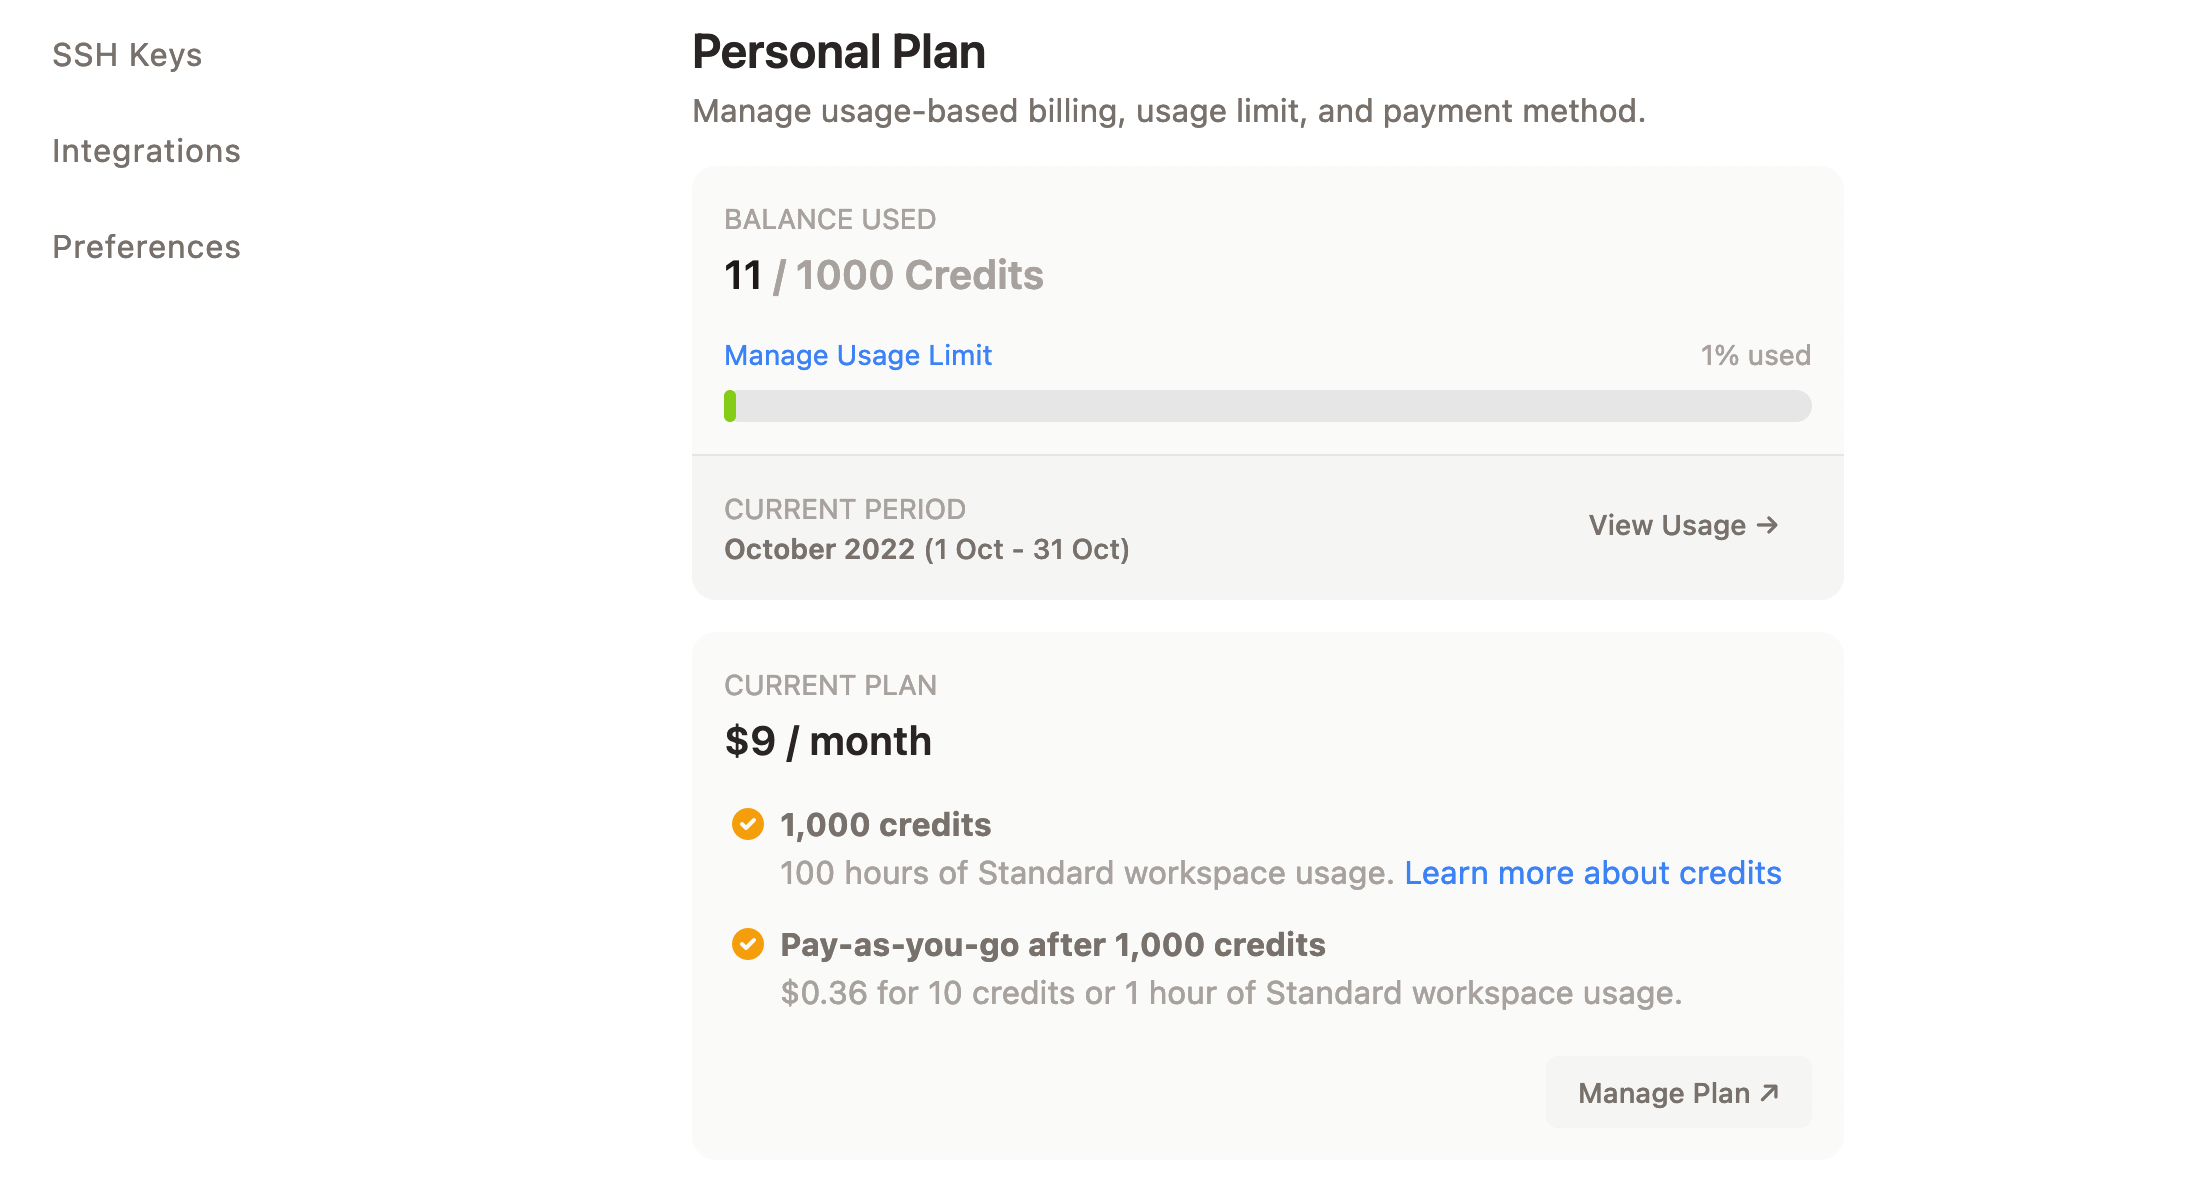
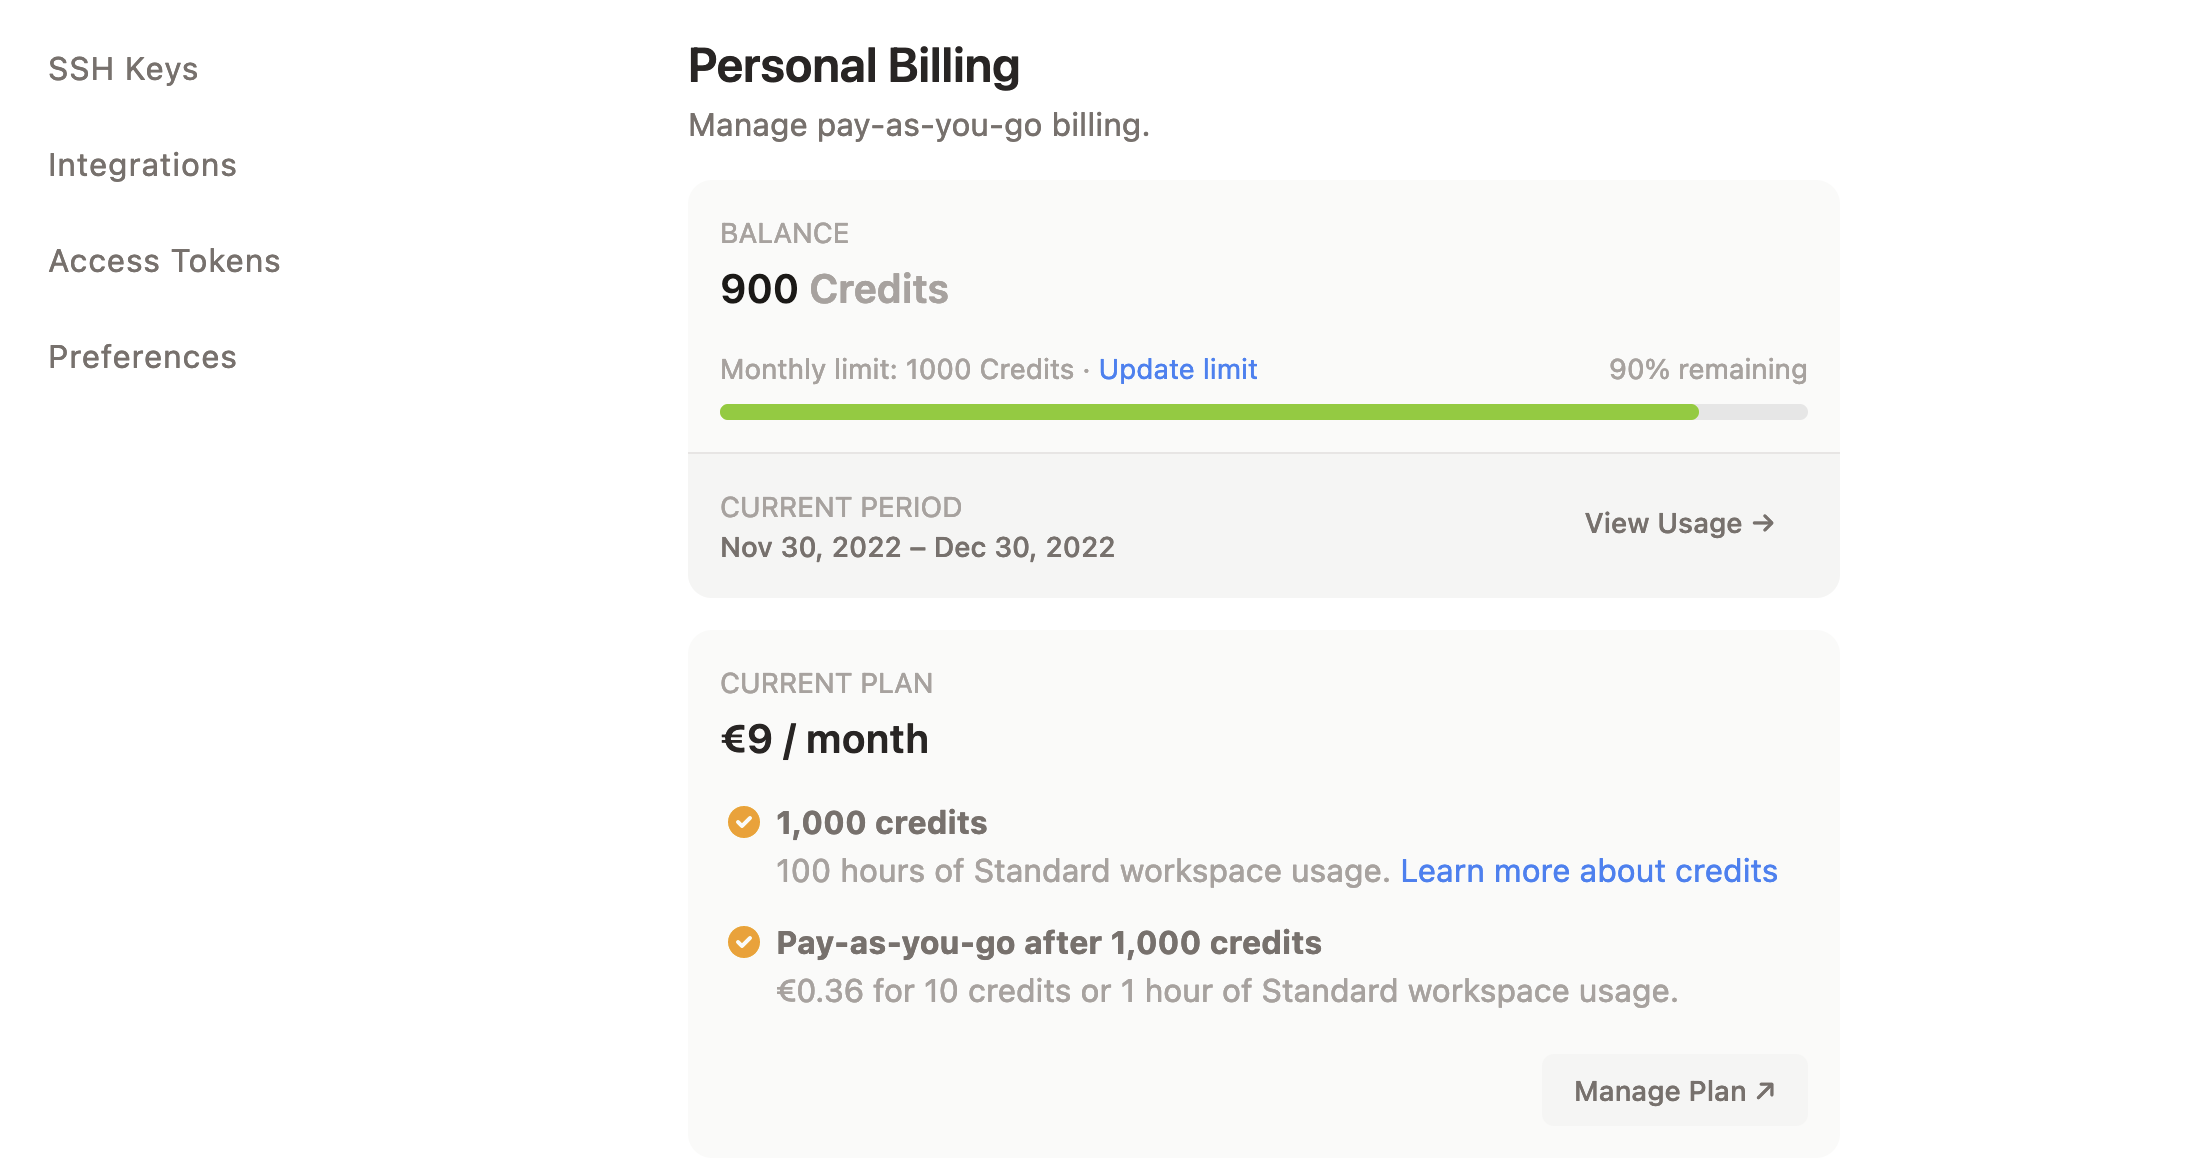
Replace usage-based billing with pay-as-you-go (#3076)

diff --git a/src/lib/contents/docs/menu.ts b/src/lib/contents/docs/menu.ts
@@ -184,8 +184,8 @@ export const MENU: MenuEntry[] = [
     M("Team plans", "configure/billing/team-plans"),
     M("Team billing", "configure/billing/team-billing", false, [], "beta"),
     M(
-      "Usage-based billing",
-      "configure/billing/usage-based-billing",
+      "Pay-as-you-go",
+      "configure/billing/pay-as-you-go",
       false,
       [],
       "Early Access"

diff --git a/src/lib/contents/changelog/2022-10-31.md b/src/lib/contents/changelog/2022-10-31.md
@@ -16,7 +16,7 @@ Welcome to the October 2022 edition of the Gitpod Changelog!
 
 **Key highlights**
 
-- [Even more power! ⚡ Try large workspaces with usage-based billing 🎉](#even-more-power--try-large-workspaces-with-usage-based-billing)
+- [Even more power! ⚡ Try large workspaces with pay-as-you-go 🎉](#even-more-power--try-large-workspaces-with-pay-as-you-go)
 - [Start workspaces based on existing prebuilds ⚡](#start-workspaces-based-on-existing-prebuilds)
 - [RubyMine and Webstorm IDEs now in beta 🚀](#rubymine-and-webstorm-ides-now-in-beta)
 - [New "exposed ports" view in VS Code Desktop 🔌](#new-exposed-ports-view-in-vs-code-desktop)
@@ -26,19 +26,19 @@ Welcome to the October 2022 edition of the Gitpod Changelog!
 - [Projects now only created under teams, not personal accounts ⚠](#projects-now-only-created-under-teams-not-personal-accounts)
 - [Using private workspace images (Alpha) 🔐](#using-private-workspace-images-alpha)
 
-## Even more power! &#x26A1; Try large workspaces with usage-based billing &#x1F389;
+## Even more power! &#x26A1; Try large workspaces with pay-as-you-go &#x1F389;
 
 > **Important:** Prices and terms are subject to change.
 
-With [usage-based billing](https://www.gitpod.io/docs/configure/billing/usage-based-billing) you get early access to [workspace classes](https://www.gitpod.io/docs/configure/workspaces/workspace-classes), allowing you to customize your workspace resources. To get access to [usage-based billing](https://www.gitpod.io/docs/configure/billing/usage-based-billing) either for teams or individual users, please [contact us](https://www.gitpod.io/contact/support).
+With [pay-as-you-go](https://www.gitpod.io/docs/configure/billing/pay-as-you-go) you get early access to [workspace classes](https://www.gitpod.io/docs/configure/workspaces/workspace-classes), allowing you to customize your workspace resources. To get access to [pay-as-you-go](https://www.gitpod.io/docs/configure/billing/pay-as-you-go) either for teams or individual users, please [contact us](https://www.gitpod.io/contact/support).
 
-**How does usage-based billing work?**
+**How does pay-as-you-go work?**
 
 - Gitpod usage is measured in credits, based on how long your workspaces run, and the resources consumed by different workspace classes. Metered usage also includes [prebuilds](/docs/configure/projects/prebuilds).
-- [Individual users](/docs/configure/billing/usage-based-billing#configure-personal-billing) receive 500 free credits per month on the free plan, these credits are equivalent to 50 Standard workspace hours or 25 Large workspace hours.
+- [Individual users](/docs/configure/billing/pay-as-you-go#configure-personal-billing) receive 500 free credits per month on the free plan, these credits are equivalent to 50 Standard workspace hours or 25 Large workspace hours.
 - For users who upgrade to the personal paid plan at €/$ 9.00 per month, workspace usage allowance increases to 1000 credits.
-- The standard pay-as-you-go rate for paid users, and [for teams](/docs/configure/billing/usage-based-billing#configure-team-billing), is €/$ 0.036 per credit.
-- Existing paid plans need to be cancelled for usage-based billing to work.
+- The standard pay-as-you-go rate for paid users, and [for teams](/docs/configure/billing/pay-as-you-go#configure-team-billing), is €/$ 0.036 per credit.
+- Existing paid plans need to be cancelled for pay-as-you-go billing to work.
 
 <br/>
 

diff --git a/gitpod/docs/configure/billing/pay-as-you-go.md b/gitpod/docs/configure/billing/pay-as-you-go.md
@@ -1,17 +1,17 @@
 ---
 section: billing
-title: Billing - Usage-based billing
+title: Billing - Pay-as-you-go
 ---
 
 <script context="module">
   export const prerender = true;
 </script>
 
-# Usage-based billing
+# Pay-as-you-go
 
-> {title} is currently in [Early Access](/docs/help/public-roadmap/release-cycle). Please [contact us](/contact/support) to request an invitation, or [send feedback](https://github.com/gitpod-io/gitpod/issues/12636).
+> Pay-as-you-go is currently in [Early Access](/docs/help/public-roadmap/release-cycle). Please [contact us](/contact/support) to request an invitation, or [send feedback](https://github.com/gitpod-io/gitpod/issues/12636).
 
-Usage-based billing is a flexible way for teams and individual users to pay for Gitpod.
+Pay-as-you-go is a flexible way for teams and individual users to pay for Gitpod.
 
 Instead of billing for each user based on their plan, Gitpod can charge for usage based on how long workspaces run, and the resources consumed by different [workspace classes](/docs/configure/workspaces/workspace-classes). Metered usage also includes [prebuilds](/docs/configure/projects/prebuilds).
 
@@ -49,11 +49,11 @@ If you are a member of a team with billing, you can select the team to pay for a
 
 ## Configure team billing
 
-Team owners can configure usage-based billing in their team settings.
+Team owners can configure pay-as-you-go billing in their team settings.
 
 Gitpod will charge the team billing account for usage by team members, when they start workspaces on team projects, and for prebuild usage on team projects.
 
-![Active Team billing](../../../static/images/docs/billing/active-team-billing-3.png)
+![Active Team billing](../../../static/images/docs/billing/active-team-billing.png)
 
 ## Configure a usage limit
 
@@ -71,9 +71,9 @@ You can see the details of your personal usage when you click on "View Usage →
 
 ## Good to know
 
-- Usage-based billing is an early-access (invitation only) feature.
+- Pay-as-you-go billing is an early-access (invitation only) feature.
 
-- You will need to cancel any existing plan, before configuring usage-based billing.
+- You will need to cancel any existing plan, before configuring pay-as-you-go billing.
 
 - Metered usage includes prebuilds.
 

diff --git a/gitpod/docs/configure/workspaces/workspace-classes.md b/gitpod/docs/configure/workspaces/workspace-classes.md
@@ -9,7 +9,7 @@ title: Workspace classes
 
 # Workspace classes
 
-> {title} are currently in [Early Access](/docs/help/public-roadmap/release-cycle) with [Usage-based billing](/docs/configure/billing/usage-based-billing). Please [contact us](/contact/support) to request access, or [send feedback](https://github.com/gitpod-io/gitpod/issues/12473).
+> {title} are currently in [Early Access](/docs/help/public-roadmap/release-cycle) with [Pay-as-you-go](/docs/configure/billing/pay-as-you-go). Please [contact us](/contact/support) to request access, or [send feedback](https://github.com/gitpod-io/gitpod/issues/12473).
 
 Workspace classes allow you to select the resources available to your workspaces.
 

diff --git a/gitpod/docs/configure/projects/index.md b/gitpod/docs/configure/projects/index.md
@@ -15,7 +15,7 @@ Projects connect Gitpod to a git repository.
 
 A Gitpod project can only have one git repository, and a git repository can only belong to one project. Projects live under a Gitpod team. Team members use the project to configure and view [prebuilds](/docs/configure/projects/prebuilds).
 
-With [usage-based billing](/docs/configure/billing/usage-based-billing), all project usage such as workspaces and prebuilds, may be billed to the team.
+With [pay-as-you-go billing](/docs/configure/billing/pay-as-you-go), all project usage such as workspaces and prebuilds, may be billed to the team.
 
 Projects have a static URL based on the team and project name, for example:
 

diff --git a/gitpod/docs/configure/billing/team-billing.md b/gitpod/docs/configure/billing/team-billing.md
@@ -19,7 +19,7 @@ title: Billing - Team billing
 >
 > If you prefer to continue to manage membership of [**Team plans**](/docs/configure/billing/team-billing) manually, you can.
 >
-> The next iteration of Team billing will replace Team plans with [Usage-based billing](/docs/configure/billing/usage-based-billing).
+> The next iteration of Team billing will replace Team plans with [Pay-as-you-go](/docs/configure/billing/pay-as-you-go).
 
 Team billing allows you to pay for your whole team with a single subscription. You can choose between the **Team Professional** plan, or the **Team Unleashed** plan.
 

diff --git a/gitpod/docs/configure/billing/index.md b/gitpod/docs/configure/billing/index.md
@@ -14,4 +14,4 @@ See below for information about how Gitpod billing works.
 - [Personal plans](/docs/configure/billing/personal-plans)
 - [Team plans](/docs/configure/billing/team-plans)
 - [Team billing](/docs/configure/billing/team-billing)
-- [Usage-based billing](/docs/configure/billing/usage-based-billing)
+- [Pay-as-you-go](/docs/configure/billing/pay-as-you-go)
